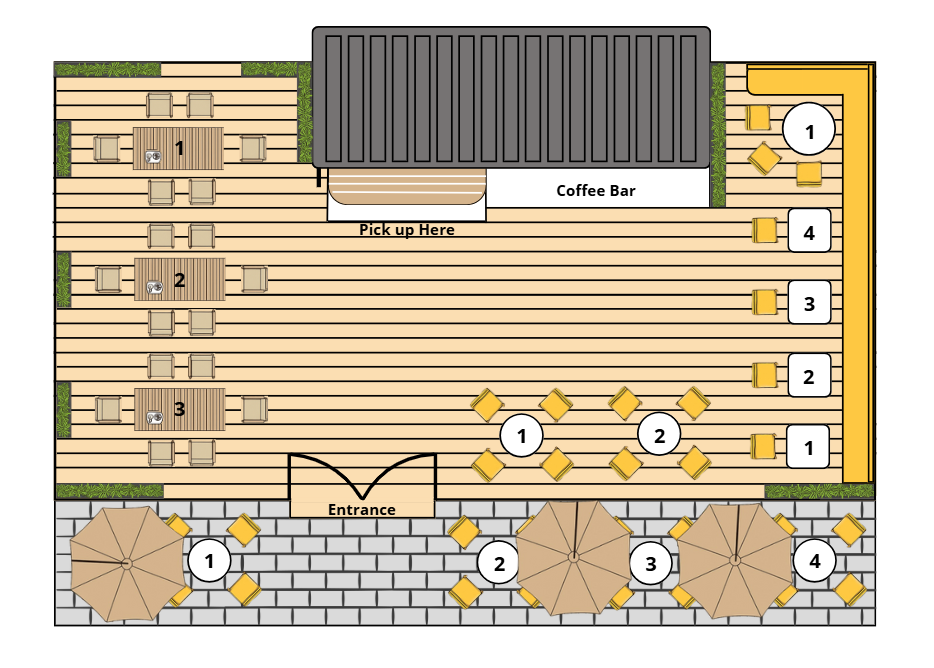
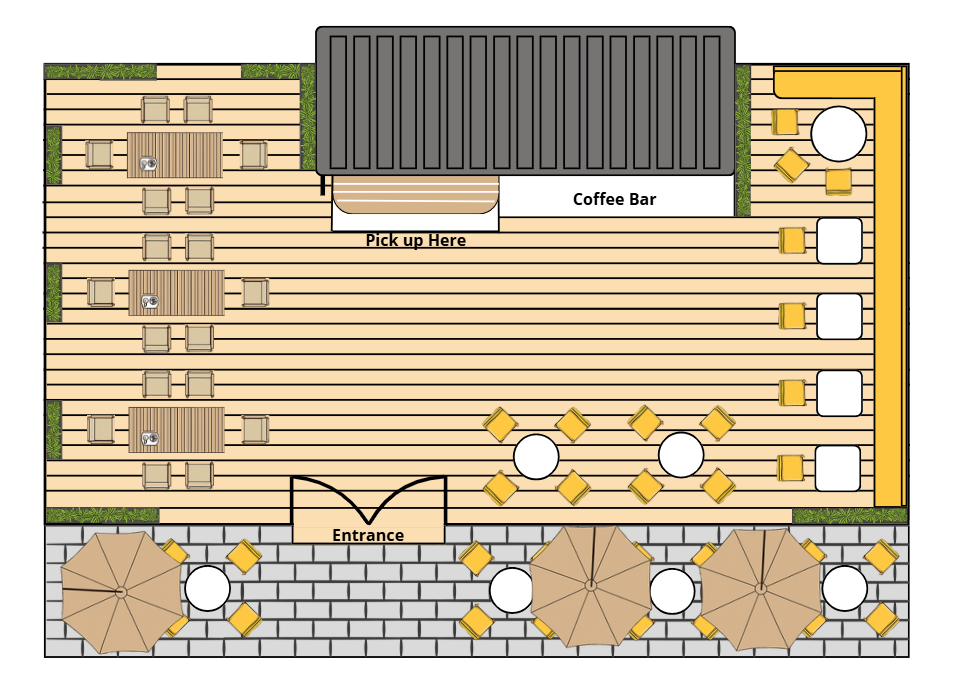
Update Denah

diff --git a/public/src/components/MenuSection.tsx b/public/src/components/MenuSection.tsx
@@ -35,20 +35,20 @@ const IMAGE_SRC = './images/DenahMeja.png';
 const STORAGE_KEY = 'table-map-statuses-v1';
 
 const DEFAULT_TABLES: Table[] = [
-  { id: 'I6-1', label: 'Meja Indoor (6 kursi) - 1', seats: 6, area: 'Indoor', coords: [180,148,33] },
-  { id: 'I6-2', label: 'Meja Indoor (6 kursi) - 2', seats: 6, area: 'Indoor', coords: [180,280,35] },
-  { id: 'I6-3', label: 'Meja Indoor (6 kursi) - 3', seats: 6, area: 'Indoor', coords: [180,408,38] },
-  { id: 'I4-1', label: 'Meja Indoor (4 kursi) - 1', seats: 4, area: 'Indoor', coords: [522,436,22] },
-  { id: 'I4-2', label: 'Meja Indoor (4 kursi) - 2', seats: 4, area: 'Indoor', coords: [659,434,22] },
-  { id: 'I2-1', label: 'Meja Indoor (2 kursi) - 1', seats: 2, area: 'Indoor', coords: [809,232,19] },
-  { id: 'I2-2', label: 'Meja Indoor (2 kursi) - 2', seats: 2, area: 'Indoor', coords: [809,304,19] },
-  { id: 'I2-3', label: 'Meja Indoor (2 kursi) - 3', seats: 2, area: 'Indoor', coords: [809,376,19] },
-  { id: 'I2-4', label: 'Meja Indoor (2 kursi) - 4', seats: 2, area: 'Indoor', coords: [807,448,19] },
-  { id: 'I7-1', label: 'Meja Indoor (7 kursi)', seats: 7, area: 'Indoor', coords: [808,129,26] },
-  { id: 'O4-1', label: 'Meja Outdoor (4 kursi) - 1', seats: 4, area: 'Outdoor', coords: [211,561,23] },
-  { id: 'O4-2', label: 'Meja Outdoor (4 kursi) - 2', seats: 4, area: 'Outdoor', coords: [500,562,23] },
-  { id: 'O4-3', label: 'Meja Outdoor (4 kursi) - 3', seats: 4, area: 'Outdoor', coords: [651,563,23] },
-  { id: 'O4-4', label: 'Meja Outdoor (4 kursi) - 4', seats: 4, area: 'Outdoor', coords: [814,560,24] },
+  { id: 'I6-1', label: 'Meja Indoor (6 kursi) - 1', seats: 6, area: 'Indoor', coords: [180,153,33] },
+  { id: 'I6-2', label: 'Meja Indoor (6 kursi) - 2', seats: 6, area: 'Indoor', coords: [180,292,35] },
+  { id: 'I6-3', label: 'Meja Indoor (6 kursi) - 3', seats: 6, area: 'Indoor', coords: [180,433,38] },
+  { id: 'I4-1', label: 'Meja Indoor (4 kursi) - 1', seats: 4, area: 'Indoor', coords: [536,457,23] },
+  { id: 'I4-2', label: 'Meja Indoor (4 kursi) - 2', seats: 4, area: 'Indoor', coords: [681,455,23] },
+  { id: 'I2-1', label: 'Meja Indoor (2 kursi) - 1', seats: 2, area: 'Indoor', coords: [838,241,19] },
+  { id: 'I2-2', label: 'Meja Indoor (2 kursi) - 2', seats: 2, area: 'Indoor', coords: [838,318,19] },
+  { id: 'I2-3', label: 'Meja Indoor (2 kursi) - 3', seats: 2, area: 'Indoor', coords: [838,394,19] },
+  { id: 'I2-4', label: 'Meja Indoor (2 kursi) - 4', seats: 2, area: 'Indoor', coords: [837,468,19] },
+  { id: 'I7-1', label: 'Meja Indoor (7 kursi)', seats: 7, area: 'Indoor', coords: [838,135,27] },
+  { id: 'O4-1', label: 'Meja Outdoor (4 kursi) - 1', seats: 4, area: 'Outdoor', coords: [208,588,24] },
+  { id: 'O4-2', label: 'Meja Outdoor (4 kursi) - 2', seats: 4, area: 'Outdoor', coords: [511,590,24] },
+  { id: 'O4-3', label: 'Meja Outdoor (4 kursi) - 3', seats: 4, area: 'Outdoor', coords: [672,591,24] },
+  { id: 'O4-4', label: 'Meja Outdoor (4 kursi) - 4', seats: 4, area: 'Outdoor', coords: [844,589,24] },
 ];
 
 const statusColor = (s: TableStatus) => {

diff --git a/public/src/components/ReservationSection.tsx b/public/src/components/ReservationSection.tsx
@@ -19,20 +19,20 @@ const STORAGE_KEY = 'table-map-statuses-v1';
 const RESERVATION_FEE = 20000;
 
 const DEFAULT_TABLES: Table[] = [
-  { id: 'I6-1', label: 'Meja Indoor (6 kursi) - 1', seats: 6, area: 'Indoor', coords: [180,148,33] },
-  { id: 'I6-2', label: 'Meja Indoor (6 kursi) - 2', seats: 6, area: 'Indoor', coords: [180,280,35] },
-  { id: 'I6-3', label: 'Meja Indoor (6 kursi) - 3', seats: 6, area: 'Indoor', coords: [180,408,38] },
-  { id: 'I4-1', label: 'Meja Indoor (4 kursi) - 1', seats: 4, area: 'Indoor', coords: [521,436,23] },
-  { id: 'I4-2', label: 'Meja Indoor (4 kursi) - 2', seats: 4, area: 'Indoor', coords: [658,434,23] },
-  { id: 'I2-1', label: 'Meja Indoor (2 kursi) - 1', seats: 2, area: 'Indoor', coords: [807,232,19] },
-  { id: 'I2-2', label: 'Meja Indoor (2 kursi) - 2', seats: 2, area: 'Indoor', coords: [807,304,19] },
-  { id: 'I2-3', label: 'Meja Indoor (2 kursi) - 3', seats: 2, area: 'Indoor', coords: [807,376,19] },
-  { id: 'I2-4', label: 'Meja Indoor (2 kursi) - 4', seats: 2, area: 'Indoor', coords: [806,448,19] },
-  { id: 'I7-1', label: 'Meja Indoor (7 kursi)', seats: 7, area: 'Indoor', coords: [807,130,27] },
-  { id: 'O4-1', label: 'Meja Outdoor (4 kursi) - 1', seats: 4, area: 'Outdoor', coords: [211,561,23] },
-  { id: 'O4-2', label: 'Meja Outdoor (4 kursi) - 2', seats: 4, area: 'Outdoor', coords: [500,562,23] },
-  { id: 'O4-3', label: 'Meja Outdoor (4 kursi) - 3', seats: 4, area: 'Outdoor', coords: [650,563,23] },
-  { id: 'O4-4', label: 'Meja Outdoor (4 kursi) - 4', seats: 4, area: 'Outdoor', coords: [814,560,24] },
+  { id: 'I6-1', label: 'Meja Indoor (6 kursi) - 1', seats: 6, area: 'Indoor', coords: [180,158,35] },
+  { id: 'I6-2', label: 'Meja Indoor (6 kursi) - 2', seats: 6, area: 'Indoor', coords: [180,295,35] },
+  { id: 'I6-3', label: 'Meja Indoor (6 kursi) - 3', seats: 6, area: 'Indoor', coords: [180,428,35] },
+  { id: 'I4-1', label: 'Meja Indoor (4 kursi) - 1', seats: 4, area: 'Indoor', coords: [536,457,23] },
+  { id: 'I4-2', label: 'Meja Indoor (4 kursi) - 2', seats: 4, area: 'Indoor', coords: [680,455,23] },
+  { id: 'I2-1', label: 'Meja Indoor (2 kursi) - 1', seats: 2, area: 'Indoor', coords: [838,242,19] },
+  { id: 'I2-2', label: 'Meja Indoor (2 kursi) - 2', seats: 2, area: 'Indoor', coords: [838,318,19] },
+  { id: 'I2-3', label: 'Meja Indoor (2 kursi) - 3', seats: 2, area: 'Indoor', coords: [838,393,19] },
+  { id: 'I2-4', label: 'Meja Indoor (2 kursi) - 4', seats: 2, area: 'Indoor', coords: [836,468,19] },
+  { id: 'I7-1', label: 'Meja Indoor (7 kursi)', seats: 7, area: 'Indoor', coords: [837,136,28] },
+  { id: 'O4-1', label: 'Meja Outdoor (4 kursi) - 1', seats: 4, area: 'Outdoor', coords: [210,588,24] },
+  { id: 'O4-2', label: 'Meja Outdoor (4 kursi) - 2', seats: 4, area: 'Outdoor', coords: [511,590,24] },
+  { id: 'O4-3', label: 'Meja Outdoor (4 kursi) - 3', seats: 4, area: 'Outdoor', coords: [671,592,24] },
+  { id: 'O4-4', label: 'Meja Outdoor (4 kursi) - 4', seats: 4, area: 'Outdoor', coords: [842,588,24] },
 ];
 
 const statusColor = (s: TableStatus) => {
